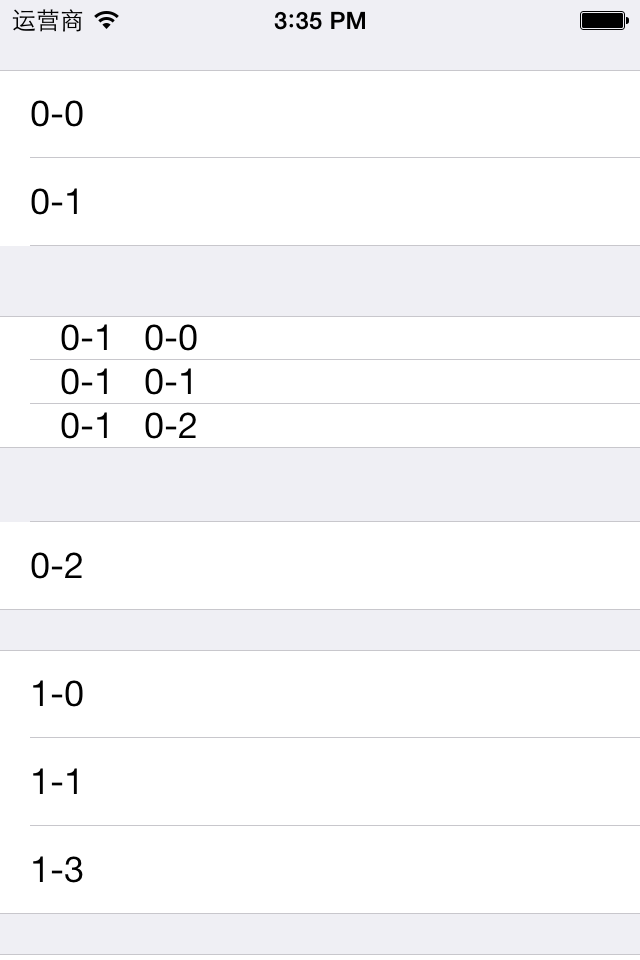
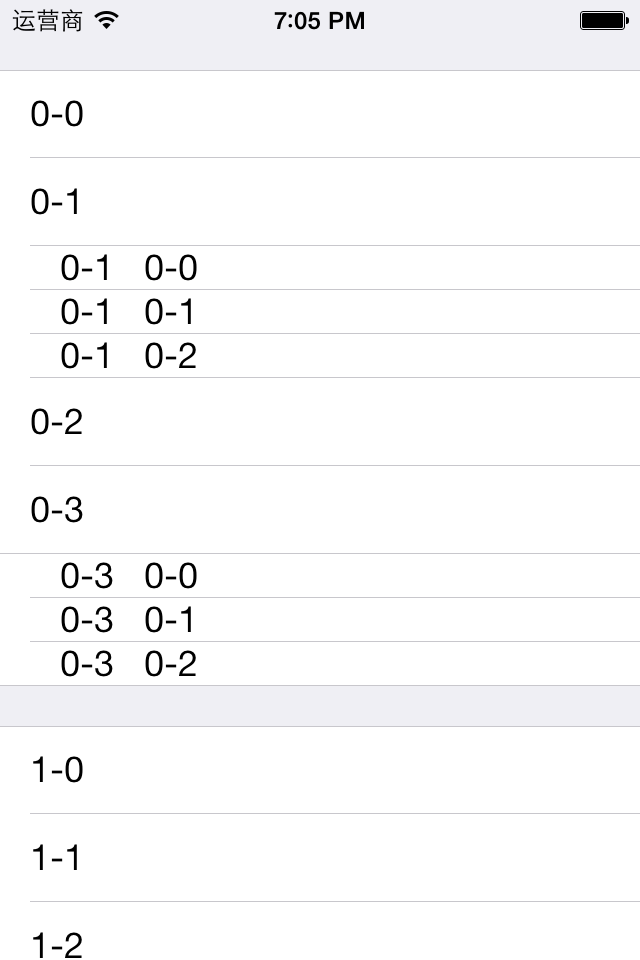
bug fix

diff --git a/BLNestedTableView/BLMainTableView.m b/BLNestedTableView/BLMainTableView.m
@@ -85,16 +85,17 @@
     int sec = indexPath.section;
     int row = indexPath.row;
     int rowForMainCell = row;
-    for (NSIndexPath *idxPath in expandIndexPathes) {
-        if (idxPath.section == sec) {
-            if (indexPath.row < row) {
-                rowForMainCell -= 1;
-            }
-        }
-    }
     
     if ([self showingNestedTableViewInSection:sec row:row]) {
-        NSIndexPath *mainIndexPath = [NSIndexPath indexPathForRow:rowForMainCell-1 inSection:sec];
+        rowForMainCell -= 1;
+        for (NSIndexPath *idxPath in expandIndexPathes) {
+            if (idxPath.section == sec) {
+                if (idxPath.row < row) {
+                    rowForMainCell -= 1;
+                }
+            }
+        }
+        NSIndexPath *mainIndexPath = [NSIndexPath indexPathForRow:rowForMainCell inSection:sec];
         BLTableContainerCell *tableContainerCell = [self dequeueReusableCellWithIdentifier:@"tableContainerCell"];
         if (!tableContainerCell) {
             UITableViewStyle tableViewStyle = [self.ntDelegate nestedTableViewStyle];
@@ -116,13 +117,6 @@
     int sec = indexPath.section;
     int row = indexPath.row;
     int rowForMainCell = row;
-    for (NSIndexPath *idxPath in expandIndexPathes) {
-        if (idxPath.section == sec) {
-            if (indexPath.row < row) {
-                rowForMainCell -= 1;
-            }
-        }
-    }
     
     if ([tableView isMemberOfClass:[BLMainTableView class]]) {
         if ([self showingNestedTableViewInSection:indexPath.section row:indexPath.row+1]) {
@@ -135,6 +129,14 @@
             [self insertRowsAtIndexPaths:@[[NSIndexPath indexPathForRow:indexPath.row+1 inSection:indexPath.section]] withRowAnimation:UITableViewRowAnimationAutomatic];
         }
         
+        for (NSIndexPath *idxPath in expandIndexPathes) {
+            if (idxPath.section == sec) {
+                if (idxPath.row < row) {
+                    rowForMainCell -= 1;
+                }
+            }
+        }
+        
         [self.ntDelegate mainTableView:self didSelectRowAtIndexPath:[NSIndexPath indexPathForRow:rowForMainCell inSection:sec]];
     } else {
         [self.ntDelegate nestedTableView:tableView forMainTableViewRowAtIndexPath:tableView.objectTag didSelectRowAtIndexPath:[NSIndexPath indexPathForRow:rowForMainCell inSection:sec]];
@@ -144,6 +146,7 @@
 #pragma mark - handle logic of expandIndexPathes
 
 - (void) expandNestedViewOfIndexPath:(NSIndexPath*) indexPath { // 存储展开后的那行
+    int row = indexPath.row;
     for (int i = 0; i < expandIndexPathes.count; i++) {
         NSIndexPath *idxPath = expandIndexPathes[i];
         if (idxPath.section == indexPath.section) {
@@ -153,7 +156,7 @@
             }
         }
     }
-    [expandIndexPathes addObject:[NSIndexPath indexPathForRow:indexPath.row+1 inSection:indexPath.section]];
+    [expandIndexPathes addObject:[NSIndexPath indexPathForRow:row+1 inSection:indexPath.section]];
     [self filterDuplicateIndexPath];
 }
 - (void) collapseNestedViewOfIndexPath:(NSIndexPath*) indexPath {

diff --git a/BLNestedTableViewDemo/BLViewController.m b/BLNestedTableViewDemo/BLViewController.m
@@ -59,7 +59,7 @@
 }
 
 - (CGFloat) mainTableView:(BLMainTableView *)mainTableView heightForNestedTableViewForRowAtIndexPath:(NSIndexPath *)indexPath {
-    return 22 * 3 + 36 + 36;
+    return 22 * 3;
 }
 
 - (NSInteger) numberOfSectionsInNestedTableView:(UITableView*) nestedTableView forMainTableViewRowAtIndexPath:(NSIndexPath *)mainIndexPath {
@@ -89,7 +89,7 @@
 }
 
 - (UITableViewStyle) nestedTableViewStyle {
-    return UITableViewStyleGrouped;
+    return UITableViewStylePlain;
 }
 
 @end
